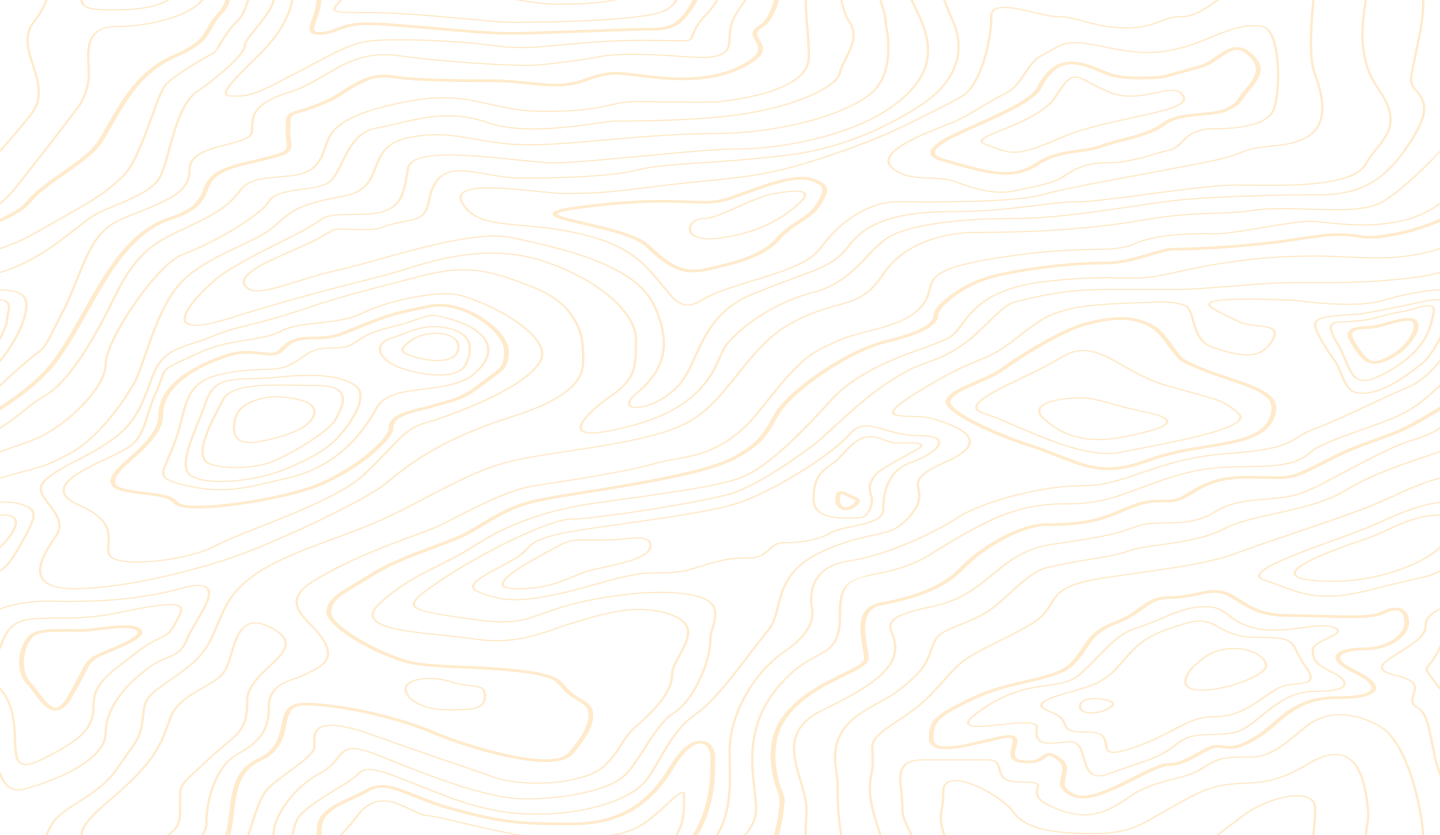
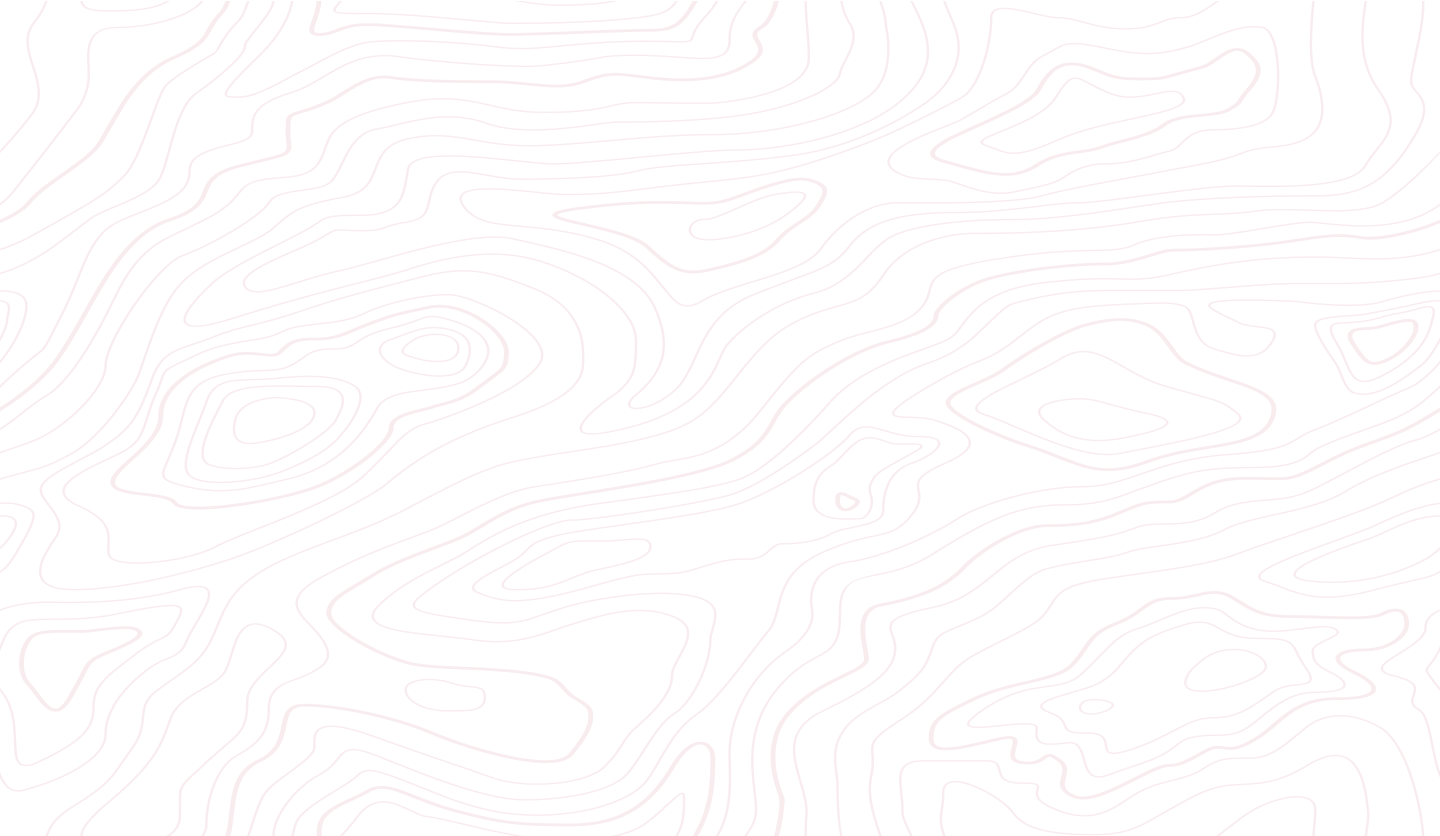
Layout redesign + added content.

diff --git a/index.html b/index.html
@@ -5,23 +5,31 @@
     <meta http-equiv="X-UA-Compatible" content="IE=edge">
     <meta name="viewport" content="width=device-width, initial-scale=1.0">
     <title>riritheartist</title>
+    <!-- fonts -->
     <link rel="preconnect" href="https://fonts.googleapis.com">
     <link rel="preconnect" href="https://fonts.gstatic.com" crossorigin>
     <link href="https://fonts.googleapis.com/css2?family=Montserrat&family=Source+Code+Pro:wght@500&display=swap" rel="stylesheet">    <link rel="stylesheet" href="app.css">
+    <!-- social icons -->
+    <script src="https://kit.fontawesome.com/df8991c74c.js" crossorigin="anonymous"></script>
 </head>
 <body>
     <header>
-        <li class="logo white">riritheartist</li>
-        <li class="items white">about</li>
-        <li class="items white">portfolio</li>
+        <li class="white">about</li>
+        <li class="white">projects</li>
+        <li class="white">contact</li>
     </header>
     <main>
-        <div class="background">
-            <h1 class="white">Hello, I am Riri!</h1>
-            <p class="white">Lorem ipsum dolor sit amet consectetur. Lorem ipsum dolor sit amet consectetur. Lorem ipsum dolor sit amet consectetur. Lorem ipsum dolor sit amet consectetur.</p>
-        </div>
-        <div>
-            <h1>Featured Works:</h1>
+        <div class="main background row">
+            <img src="assets/photo.png" alt="Profile" style="height:500px;">
+            <div class="column">
+                <h1 class=>I am Riri.</h1>
+                <p class=>I am a 19-year old Computer Science student from, a passionate artist, and an aspiring front-end web/app developer from the Philippines. I am a freelance digital illustrator and an enthusiast in UI/UX research & design. I also have a passion to teach and I would like to become an educator someday. As a tech enthusiast, I am very passionate in learning about smartphones and similar tech... I think you can consider me an Apple and Google fangirl!</p>
+                <div class="row">
+                    <a href="https://www.facebook.com/guhitniriri/" class="fab fa-facebook"></a>
+                    <a href="https://github.com/riaacordero" class="fab fa-github"></a>
+                    <a href="https://www.linkedin.com/in/riritheartist/" class="fab fa-linkedin"></a>
+                </div>
+            </div>
         </div>
     </main>
 </body>

diff --git a/app.css b/app.css
@@ -1,19 +1,18 @@
 body{
-    background-color: #1E272D;
-}
-
-header{
-    background-color: #1E272D;
+    background-color: white;
 }
 
 h1,
 h4{
     font-family: 'Source Code Pro', monospace;
+    font-weight: 900;
 }
 
 p{
     font-family: 'Montserrat', sans-serif;
-}
+    text-align: justify;
+    text-align-last: left;
+    width: 400px;}
 
 li{
     font-family: 'Source Code Pro', monospace;
@@ -21,28 +20,56 @@ li{
 }
 
 li:hover{
-    color: #FF9900;
+    color: #E3B5BF;
     cursor: pointer;
-
 }
 
-main{
-    background-image: url('assets/bg-img.png');
-    text-align: center;
+a{
+    font-size: 25px;
+    gap:0.5em;
+    list-style: none;
+    padding-right: 7.5px;
+    color:#1E272D;
+    text-decoration: none;
+}
+a:hover{
+    color: #E3B5BF;
+    cursor: pointer;
 }
 
+/* flex */
+.column{
+    display: flex;
+    flex-direction: column;
+}
+
+.row{
+    display: flex;
+    flex-direction: row;
+}
 /* colors */
 .white{
     color:white;
 }
 
 /* header */
-.logo{
-    justify-self: start;
-    margin-left: 20px;
+header{
+    padding: 1.5em;
+    display: grid;
+    grid-template-columns: repeat(3, auto);
+    grid-gap: 20px;
+    justify-content: center;
+    background-color: #1E272D;
 }
 
-.items{
-    justify-self: end;
-    margin-right: 20px;
+/* main */
+
+.main{
+    align-items: center;
+    justify-content: center;
+    padding-top: 4em;
+}
+.background{
+    background-image: url('assets/bg-img.png');
+    background-color: #ffffff;
 }
